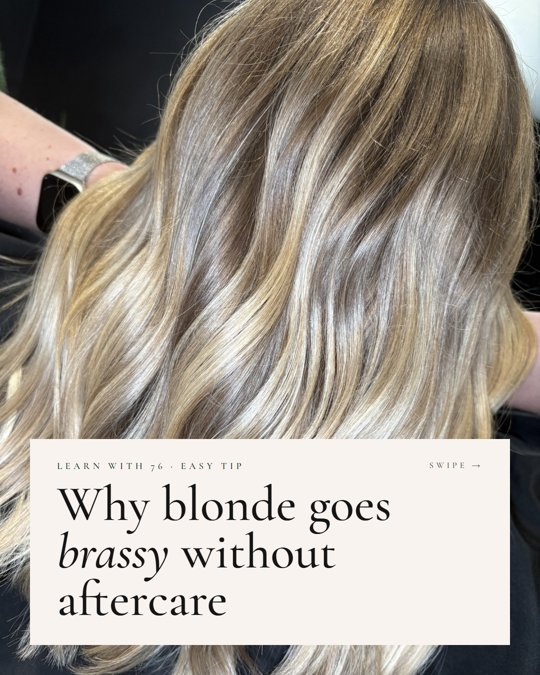
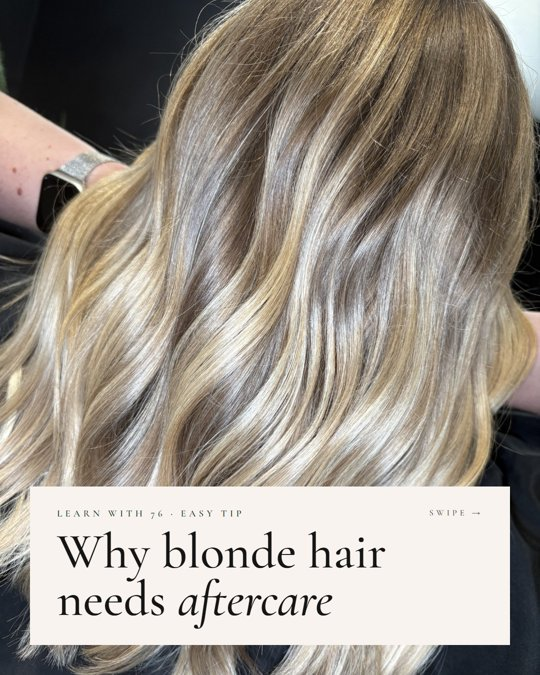
76 planner: Tips cover title now 'Why blonde hair needs aftercare'

Changed region(s): [[0.0296, 0.6222, 0.9481, 0.9333]]

diff --git a/seventysix-planner/index.html b/seventysix-planner/index.html
@@ -378,7 +378,7 @@ const BP={
  nano:{k:'P',g:'Extensions',w:'Reel: nano bonds, short to long',img:'img/guide-nano.jpg',x:"Ready-made reel from the social media guide (Kimmy's Drive), ends on the Team 76 card",ty:'reel',ok:true,need:'Claudia is off sick, so this fills her slot. Ask Kimmy who did the look if she wants a name on the end card'},
  salon:{k:'R',c:'g',g:'Team',w:'Walk into 76 Chelmsford',x:'Reel with a green text box + swipe design',ty:'reel',ok:true},
  pkg:{k:'T',c:'b',g:'Team',w:'Black Friday · blow-dry package £80',x:'Offer poster (ready to post)',ty:'photo',ok:true},
- tip:{k:'P',g:'Learn',w:'Tip: why blonde goes brassy without aftercare',x:'Easy version (ready): photo cover, 5 slides in plain words, no science names',full:'img/wk/tip-brassy-easy.jpg',ty:'carousel',ok:true},
+ tip:{k:'P',g:'Learn',w:'Tip: why blonde hair needs aftercare',x:'Easy version (ready): photo cover, 5 slides in plain words, no science names',full:'img/wk/tip-brassy-easy.jpg',ty:'carousel',ok:true},
  bob:{k:'P',g:'Emma',w:'The big chop (bob)',x:'Clean after, before on the last slide',ty:'carousel',ok:true},
  emmafri:{k:'R',c:'g',g:'Emma',w:"It's Black Friday · Emma's colours",x:'Reel of red, copper, blonde, brunette, green text box, £150 end card',ty:'reel',ok:true},
  remi:{k:'P',g:'Extensions',w:'Reel: Remi Cachet, find your shade',img:'img/guide-remi.jpg',x:"Ready-made reel from the social media guide (Kimmy's Drive), ends on the Team 76 card",ty:'reel',ok:true,need:'Claudia is off sick, so this fills her slot. Spare if needed: the Sway extensions reel'},
